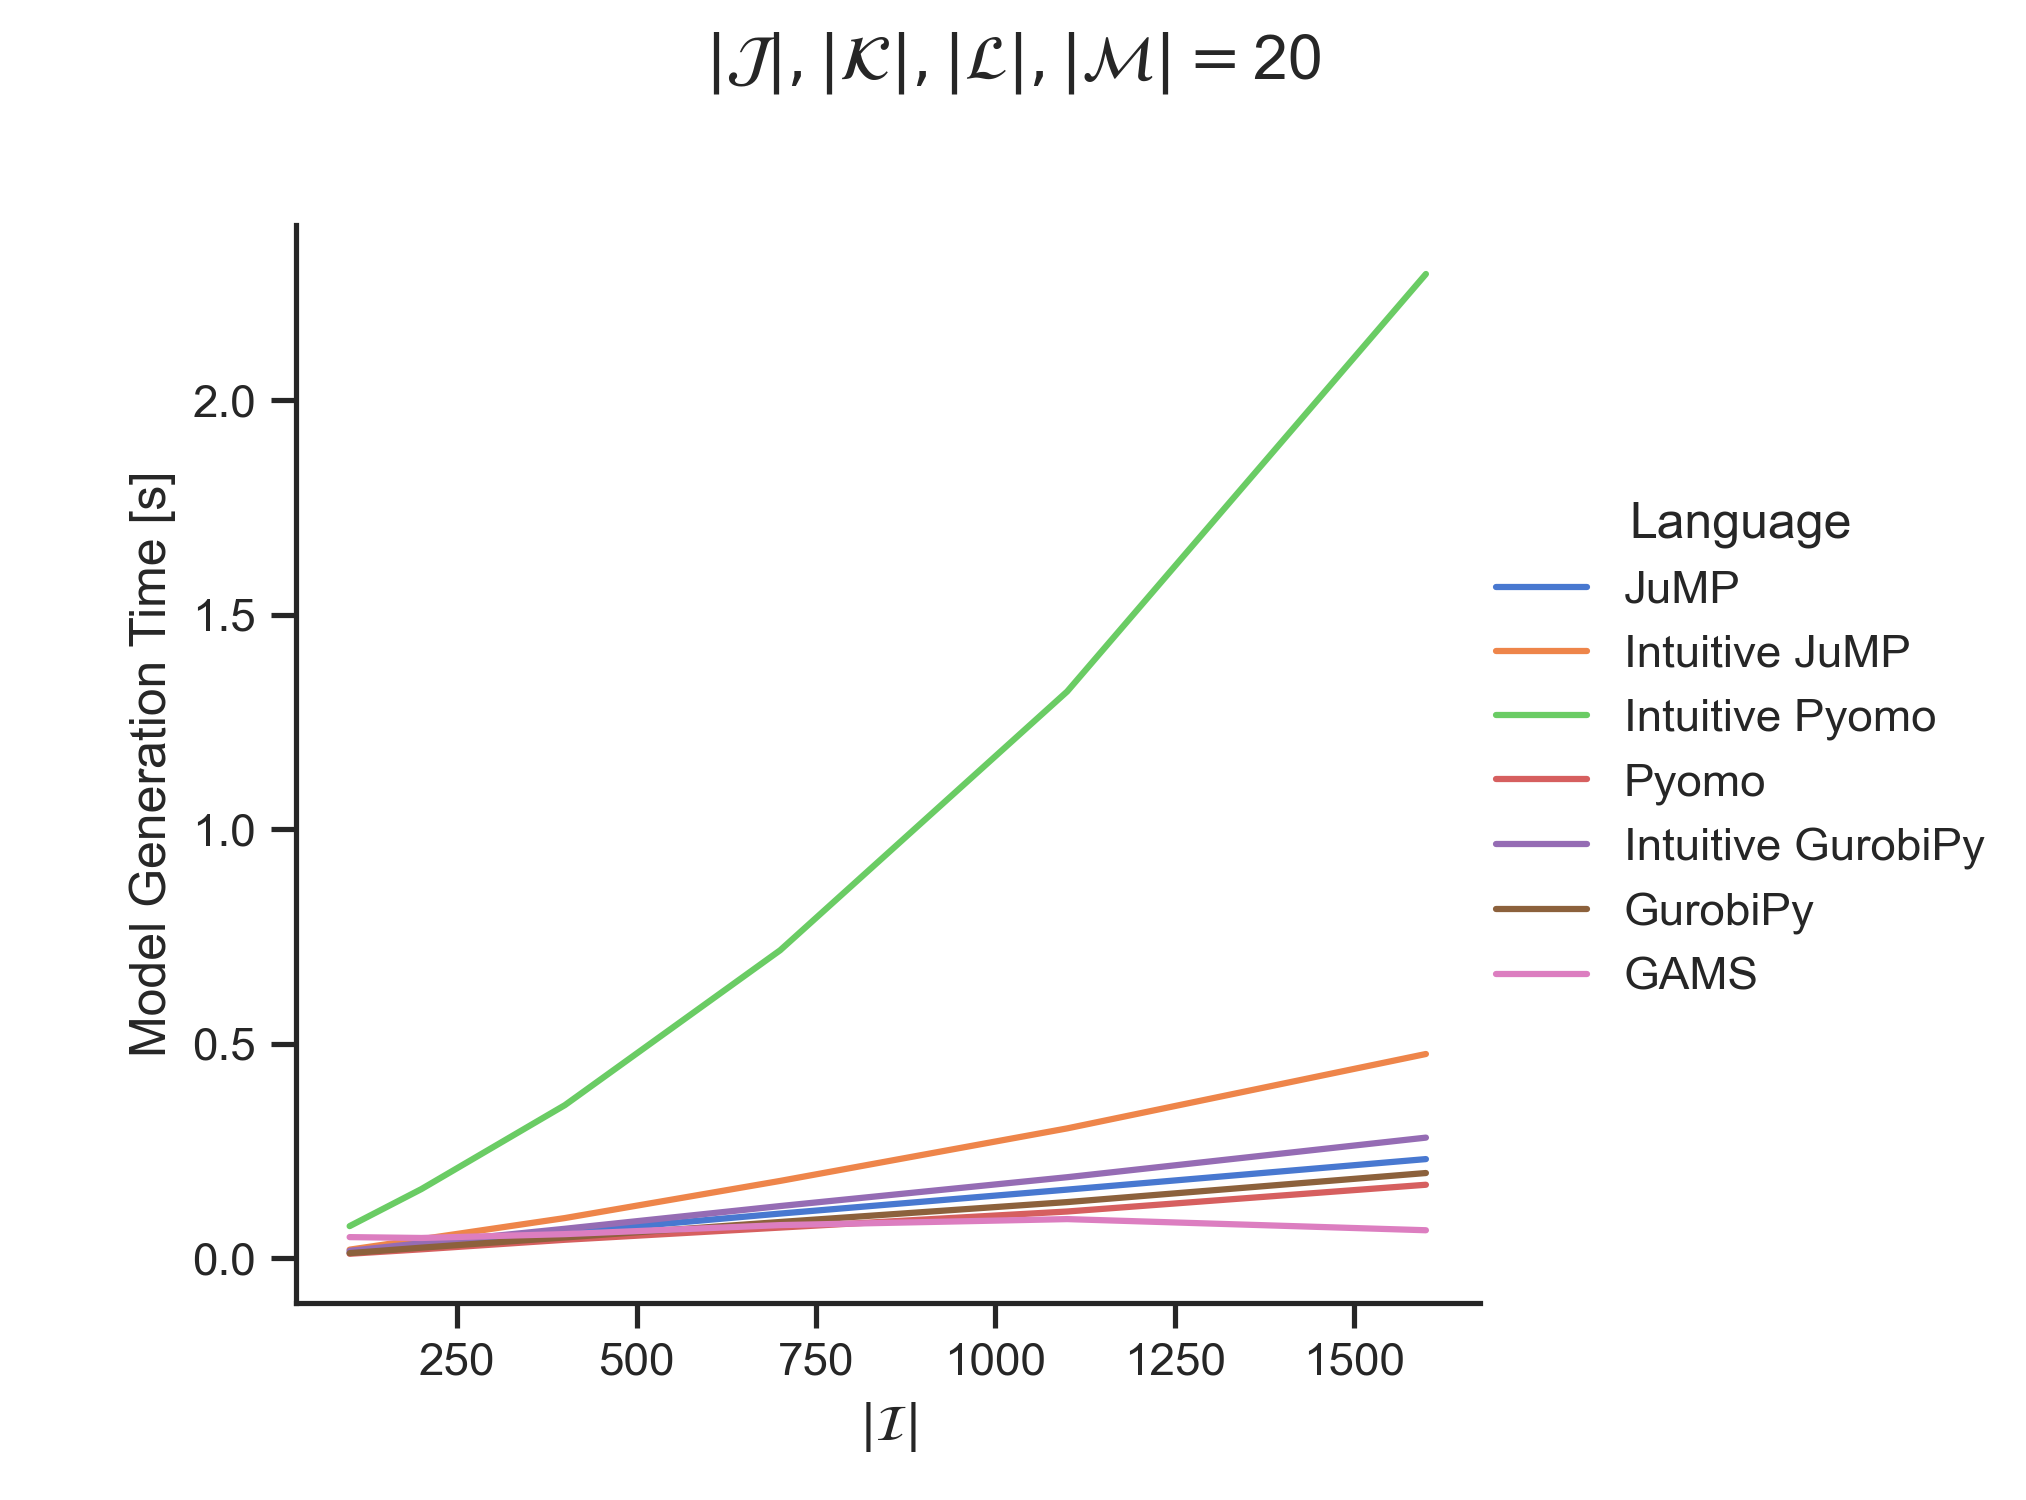
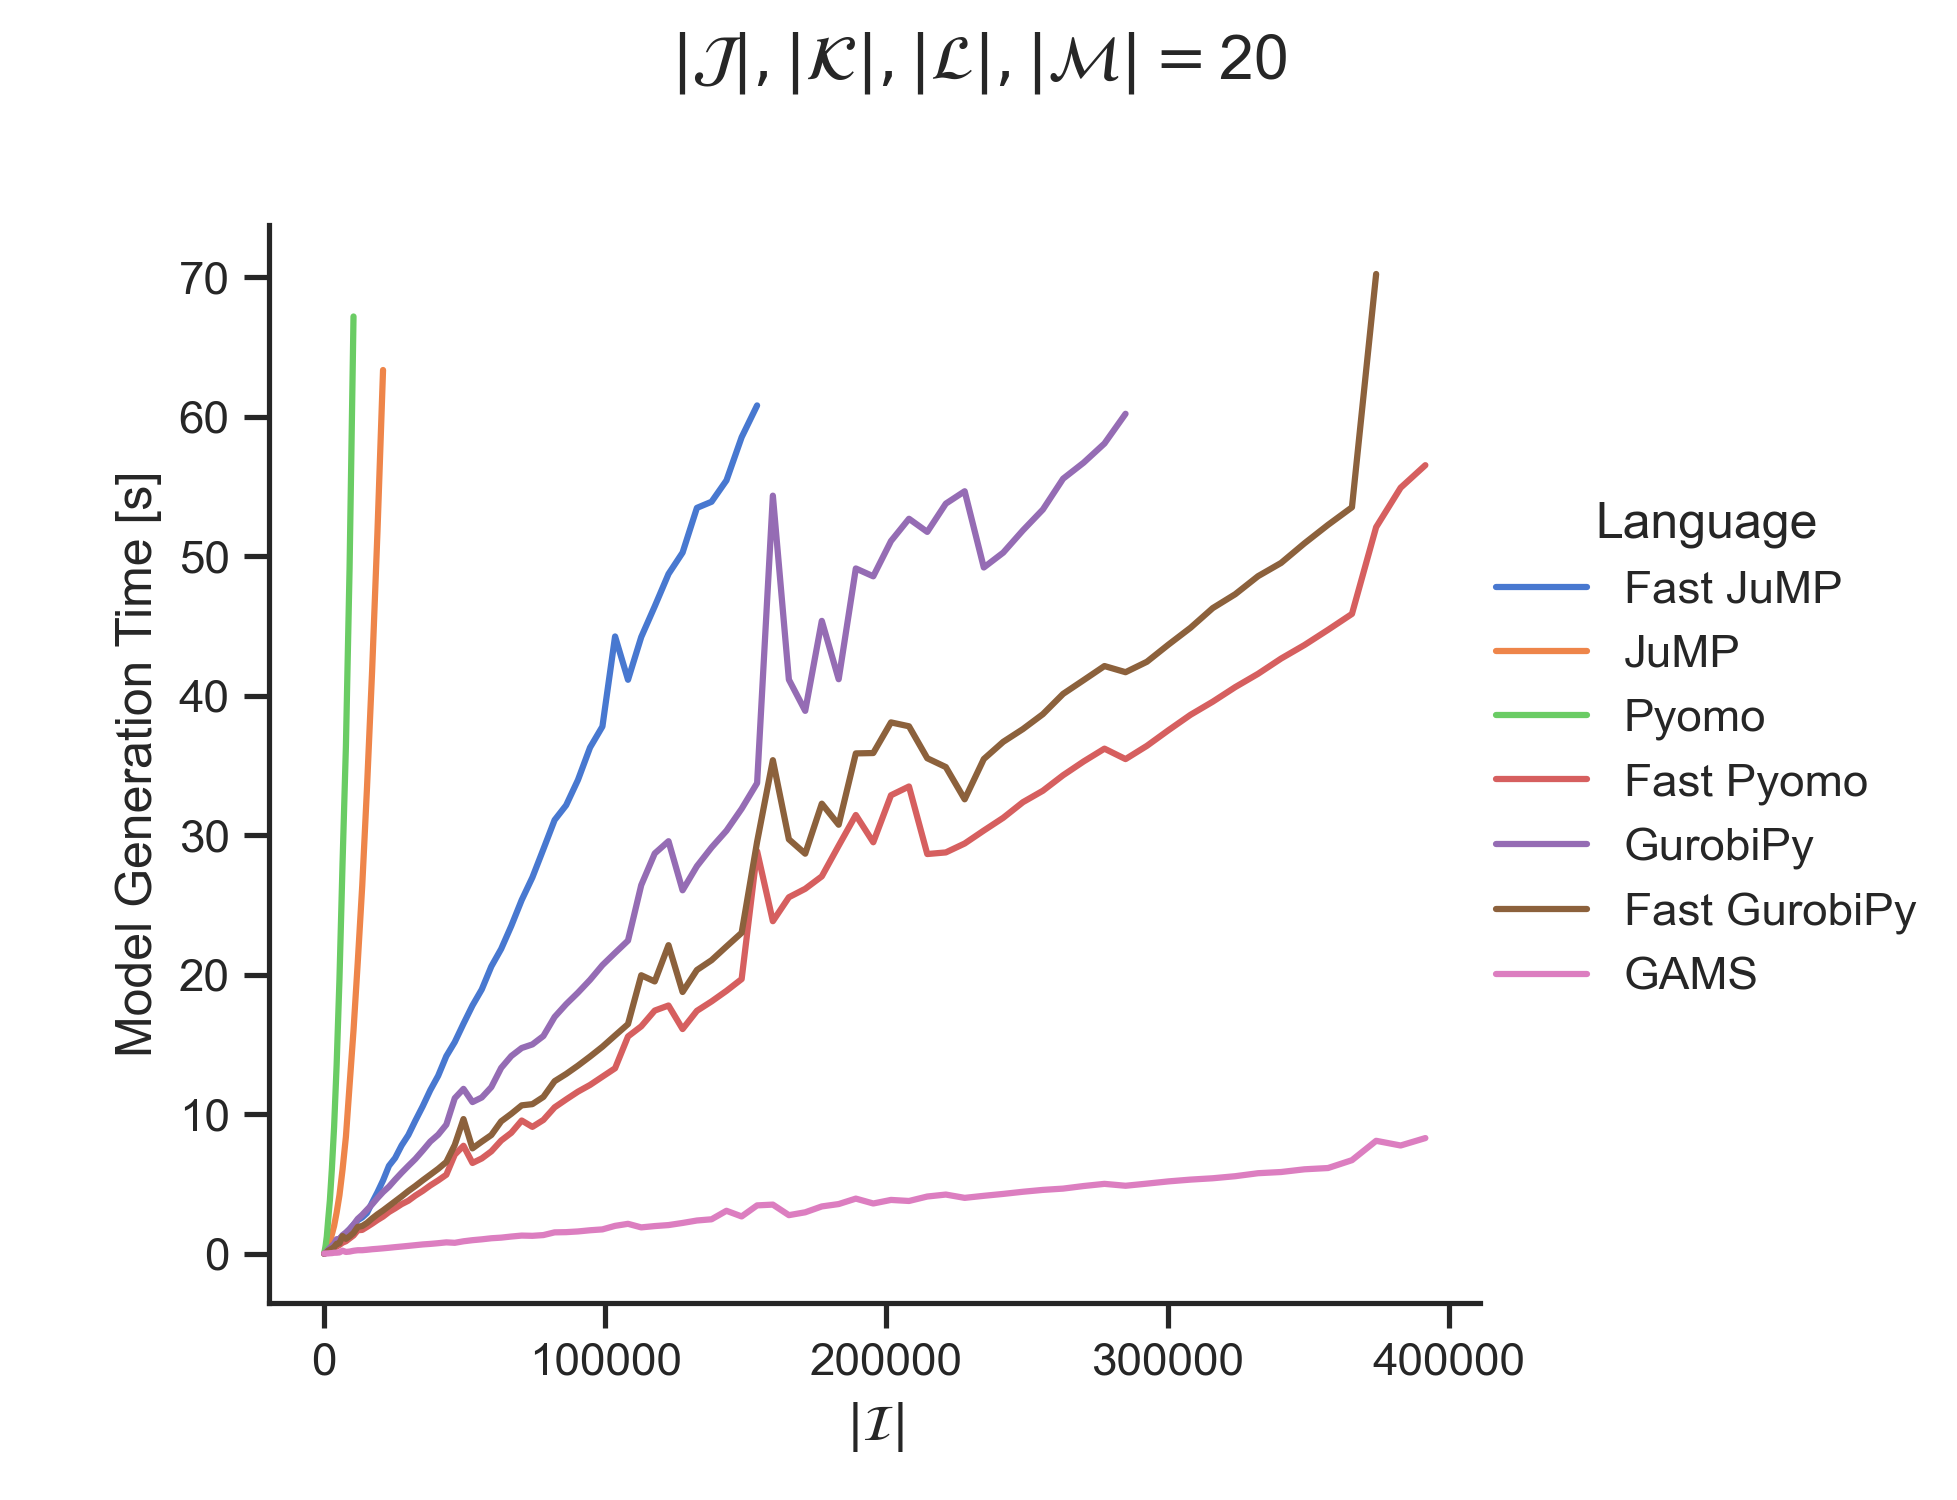
final computations

diff --git a/cartesian_IJKLM.py b/cartesian_IJKLM.py
@@ -24,7 +24,7 @@ def run_experiment(
     np.random.seed(13)
 
     # create empty frames for results
-    df_intuitive_pyomo = create_data_frame()
+    df_pyomo = create_data_frame()
     df_cartesian_pyomo = create_data_frame()
 
     # define the x axis
@@ -40,8 +40,8 @@ def run_experiment(
         I, IJK = data.create_variable_data(n=n, j=J, k=K)
         ijk_tuple = data.variable_data_to_tuples(IJK=IJK)
 
-        # Intuitive Pyomo
-        if below_time_limit(df_intuitive_pyomo, time_limit):
+        # Pyomo
+        if below_time_limit(df_pyomo, time_limit):
             rr = run_pyomo(
                 I=I,
                 IJK=ijk_tuple,
@@ -51,8 +51,8 @@ def run_experiment(
                 repeats=repeats,
                 number=number,
             )
-            df_intuitive_pyomo = process_results(rr, df_intuitive_pyomo)
-            print_log_message(language="Intuitive Pyomo", n=n, df=df_intuitive_pyomo)
+            df_pyomo = process_results(rr, df_pyomo)
+            print_log_message(language="Pyomo", n=n, df=df_pyomo)
 
         # Cartesian Pyomo
         if below_time_limit(df_cartesian_pyomo, time_limit):
@@ -73,7 +73,7 @@ def run_experiment(
             print_log_message(language="Cartesian Pyomo", n=n, df=df_cartesian_pyomo)
 
     # merge all results
-    df = pd.concat([df_intuitive_pyomo, df_cartesian_pyomo]).reset_index(drop=True)
+    df = pd.concat([df_pyomo, df_cartesian_pyomo]).reset_index(drop=True)
 
     # save results
     save_results(df, solve, "cartesian_IJKLM")

diff --git a/main_IJKLM.py b/main_IJKLM.py
@@ -36,7 +36,7 @@ def run_experiment(
     df_gams = create_data_frame()
 
     # define the x axis
-    N = list(incremental_range(100, cardinality_of_i + 1, 100, 100))
+    N = list(incremental_range(100, cardinality_of_i + 1, 200, 100))
 
     # create fixed data and convert to tuples and dicts
     J, K, L, M, JKL, KLM = data.create_fixed_data(m=cardinality_of_j)
@@ -130,17 +130,17 @@ def run_experiment(
 
 
 if __name__ == "__main__":
-    CI = 2000
+    CI = 400000
     CJ = 20
 
     create_directories("IJKLM")
-
-    for solve in [False, True]:
-        run_experiment(
-            cardinality_of_i=CI,
-            cardinality_of_j=CJ,
-            solve=solve,
-            repeats=3,
-            number=1,
-            time_limit=60,
-        )
+    solve = True
+    # for solve in [False, True]:
+    run_experiment(
+        cardinality_of_i=CI,
+        cardinality_of_j=CJ,
+        solve=solve,
+        repeats=3,
+        number=1,
+        time_limit=60,
+    )

diff --git a/IJKLM/run_gams.py b/IJKLM/run_gams.py
@@ -32,13 +32,13 @@ def data_to_gams(I, J, K, L, M, ijk, jkl, klm):
 def run_gams(solve, N, repeats, number):
     if solve:
         subprocess.call(
-            f"gams IJKLM/IJKLM.gms --R={repeats} --N={number}",
+            f"gams IJKLM/IJKLM.gms --solve={solve} --R={repeats} --N={number}",
             stderr=subprocess.DEVNULL,
             stdout=subprocess.DEVNULL,
         )
     else:
         subprocess.call(
-            f"gams IJKLM/IJKLM.gms --solve={solve} --R={repeats} --N={number}",
+            f"gams IJKLM/IJKLM.gms --R={repeats} --N={number}",
             stderr=subprocess.DEVNULL,
             stdout=subprocess.DEVNULL,
         )

diff --git a/IJKLM/run_pyomo.py b/IJKLM/run_pyomo.py
@@ -28,7 +28,7 @@ def run_pyomo(I, IJK, JKL, KLM, solve, repeats, number):
     result = pd.DataFrame(
         {
             "I": [len(I)],
-            "Language": ["Intuitive Pyomo"],
+            "Language": ["Pyomo"],
             "MinTime": [np.min(r)],
             "MeanTime": [np.mean(r)],
             "MedianTime": [np.median(r)],
